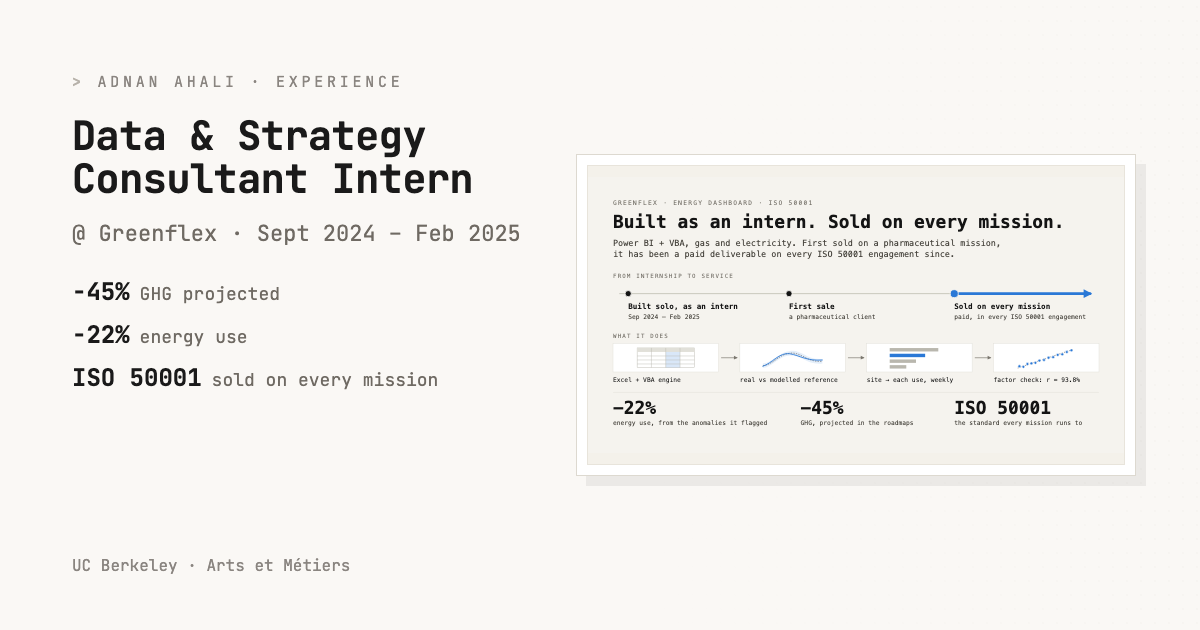
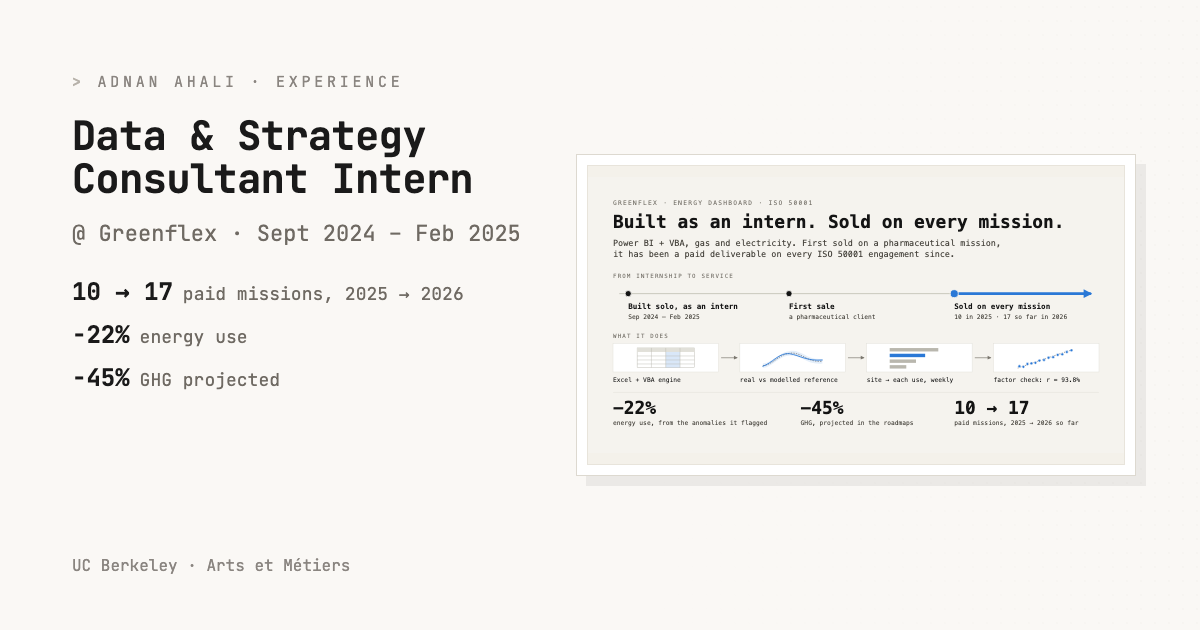
Show Greenflex's traction: 10 paid missions in 2025, 17 so far in 2026.
The dashboard's best proof was missing from the site. The Greenflex
entry, its explainer and caption, the About text, the resume and the
link-preview card now give the mission counts.

diff --git a/src/data/experience-detail.ts b/src/data/experience-detail.ts
@@ -101,22 +101,23 @@ export const experienceDetails: ExperienceDetail[] = [
     location: "Paris, France",
     duration: "September 2024 — February 2025",
     blurb:
-      "Built solo as an intern: a Power BI and VBA dashboard for gas and electricity, first sold on a pharmaceutical mission, now sold as a service on every ISO 50001 engagement. Roadmaps projecting a 45% cut in GHG.",
+      "Built solo as an intern: a Power BI and VBA dashboard for gas and electricity, first sold on a pharmaceutical mission, now sold as a service on every ISO 50001 engagement: 10 missions in 2025, 17 so far in 2026. Roadmaps projecting a 45% cut in GHG.",
     constraint:
       "A reduction target is a sentence until the meters say where the energy goes. The dashboard had to be good enough to sell on its own, then good enough to carry the next mission.",
     metrics: [
-      { value: "−45%", label: "GHG projected" },
+      { value: "10 → 17", label: "paid missions, 2025 → 2026" },
       { value: "−22%", label: "energy use" },
+      { value: "−45%", label: "GHG projected" },
       { value: "ISO 50001", label: "energy tracking" },
     ],
     owned: [
-      "A gas and electricity dashboard in Power BI and VBA, built solo during the internship: consumption tracking and a forecast. First sold on a pharmaceutical consulting mission, then sold as a service on every ISO 50001 engagement",
+      "A gas and electricity dashboard in Power BI and VBA, built solo during the internship: consumption tracking and a forecast. First sold on a pharmaceutical consulting mission, then sold as a service on every ISO 50001 engagement: 10 missions in 2025, 17 so far in 2026",
       "Decarbonization roadmaps for pharmaceutical and automotive clients, with a projected 45% reduction in greenhouse-gas emissions",
       "ISO 50001 energy tracking on top of that dashboard. The anomalies it flagged led to a 22% reduction in energy consumption",
     ],
     description:
       "The first deliverable was a product, not a slide. As an intern, working alone on it, I built a dashboard that tracks and forecasts gas and electricity consumption, in Power BI and VBA. The brief was to sell it on a consulting mission for a pharmaceutical client. It sold.\n\n" +
-      "After that it stopped being a one-off. Every later mission on ISO 50001 used the same dashboard: site level, then the equipment underneath (boilers, HVAC), then the drivers of the load, then a forecast against the reference. The client was buying the tool along with the mission, and it has been sold that way on every ISO 50001 mission since.\n\n" +
+      "After that it stopped being a one-off. Every later mission on ISO 50001 used the same dashboard: site level, then the equipment underneath (boilers, HVAC), then the drivers of the load, then a forecast against the reference. The client was buying the tool along with the mission, and it has been sold that way on every ISO 50001 mission since: 10 missions in 2025, 17 so far in 2026.\n\n" +
       "The roadmaps sat on top of that trace. For pharmaceutical and automotive sites I projected a 45% reduction in greenhouse-gas emissions. The tracking, run to ISO 50001, is what made the number operational: the anomalies it surfaced led to a 22% drop in energy consumption.",
     tags: ["Power BI", "VBA", "ISO 50001", "Forecasting", "Energy"],
     cover: "images/experience/greenflex/overview.svg",

diff --git a/src/data/site.ts b/src/data/site.ts
@@ -20,7 +20,7 @@ export const site = {
   /** Paragraphs separated by a blank line. */
   about:
     "Product manager trained as an engineer: M.Eng. in Mechanical Engineering at UC Berkeley, after Arts et Métiers (major in AI, minor in low-carbon energy).\n\n" +
-    "Three roles, each closer to the product. At Greenflex, as an intern, I built an energy dashboard that is now sold on every ISO 50001 mission. At Wavestone, as Technical Product Manager, I shipped a Python interface that cleans 3,000+ TB of SharePoint for 6,000+ users, and grid-capacity dashboards for RTE. At Eurogroup Consulting, as Product Manager, I took a €2M SNCF application from 100+ user interviews to 3,000 stations, and rolled out a tool to 10,000 users at the Ministry of the Armed Forces.\n\n" +
+    "Three roles, each closer to the product. At Greenflex, as an intern, I built an energy dashboard that is now sold on every ISO 50001 mission: 10 in 2025, 17 so far in 2026. At Wavestone, as Technical Product Manager, I shipped a Python interface that cleans 3,000+ TB of SharePoint for 6,000+ users, and grid-capacity dashboards for RTE. At Eurogroup Consulting, as Product Manager, I took a €2M SNCF application from 100+ user interviews to 3,000 stations, and rolled out a tool to 10,000 users at the Ministry of the Armed Forces.\n\n" +
     "The method stays the same: start from the people who will use it, turn interviews and operating data into a roadmap, and ship something a team can run and a user keeps opening. A score, a model or a dashboard earns its place only when it changes a decision.\n\n" +
     "Lately: a first hackathon won — 1st place, Most Creative track, at B@BHacks 2.0, with Geste.",
   quote: {

diff --git a/src/components/greenflex-figures.tsx b/src/components/greenflex-figures.tsx
@@ -3,7 +3,7 @@ import { ExperienceShots, type ExperienceShot } from "@/components/experience-sh
 const shots: ExperienceShot[] = [
   {
     src: "images/experience/greenflex/overview.svg",
-    caption: "Built as an intern, then sold as a paid deliverable on every ISO 50001 mission since",
+    caption: "Built solo as an intern, then sold as a paid deliverable on every ISO 50001 mission since: 10 missions in 2025, 17 so far in 2026",
     width: 1200,
     height: 620,
   },
